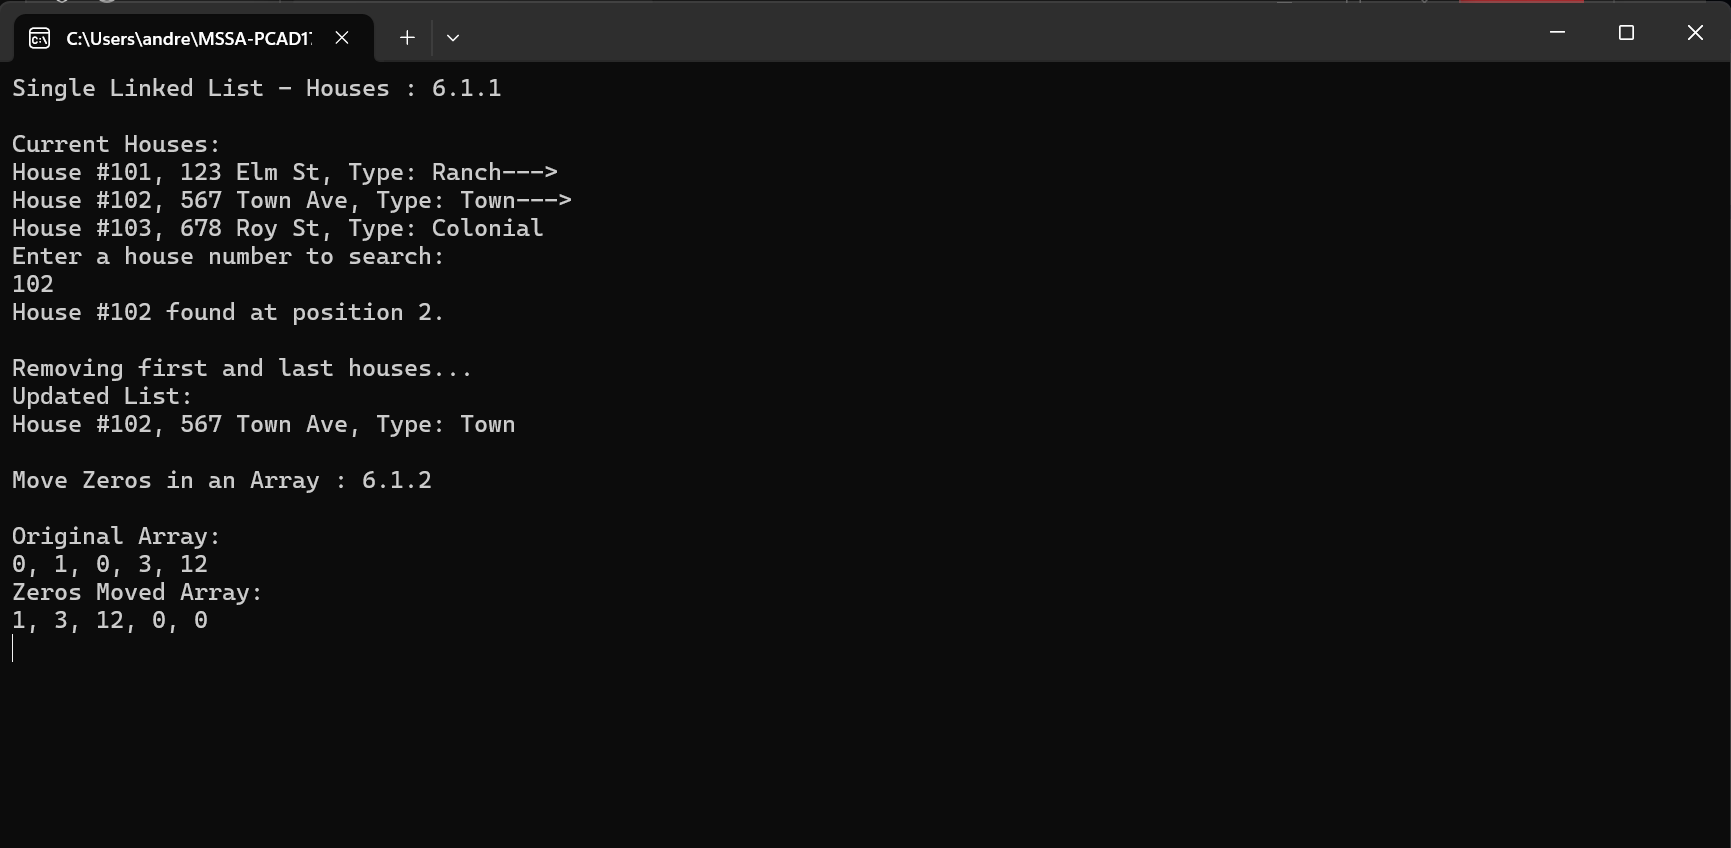
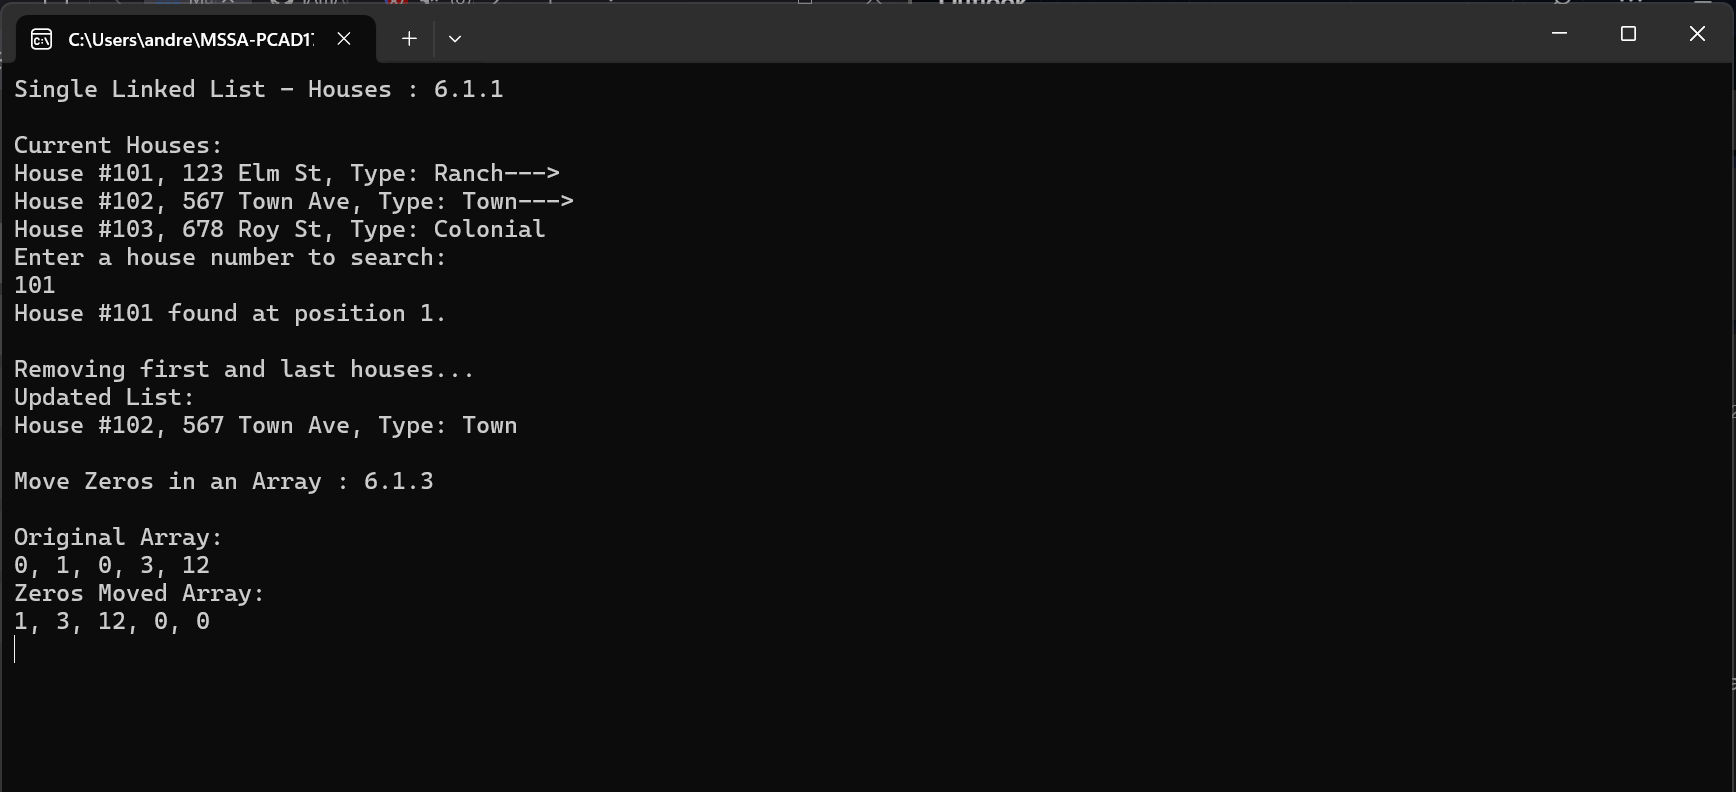
Corrected 6.1.3 headers

diff --git a/Week 6/6.1/Program.cs b/Week 6/6.1/Program.cs
@@ -35,7 +35,7 @@ internal class Program
 
         Console.WriteLine();
 
-        Console.WriteLine("Move Zeros in an Array : 6.1.2");
+        Console.WriteLine("Move Zeros in an Array : 6.1.3");
         Console.WriteLine();
         int[] nums = { 0, 1, 0, 3, 12 };
         Console.WriteLine("Original Array: ");

diff --git a/Week 6/6.1/Class2.cs b/Week 6/6.1/Class2.cs
@@ -7,7 +7,7 @@ using System.Threading.Tasks;
 namespace _6._1
 {
 /*
-* Assignment 6.1.2
+* Assignment 6.1.3
 * 
 * Restate the Problem:
 * Given an int arry nums : int[] nums = { 0, 1, 0, 3, 12 };
